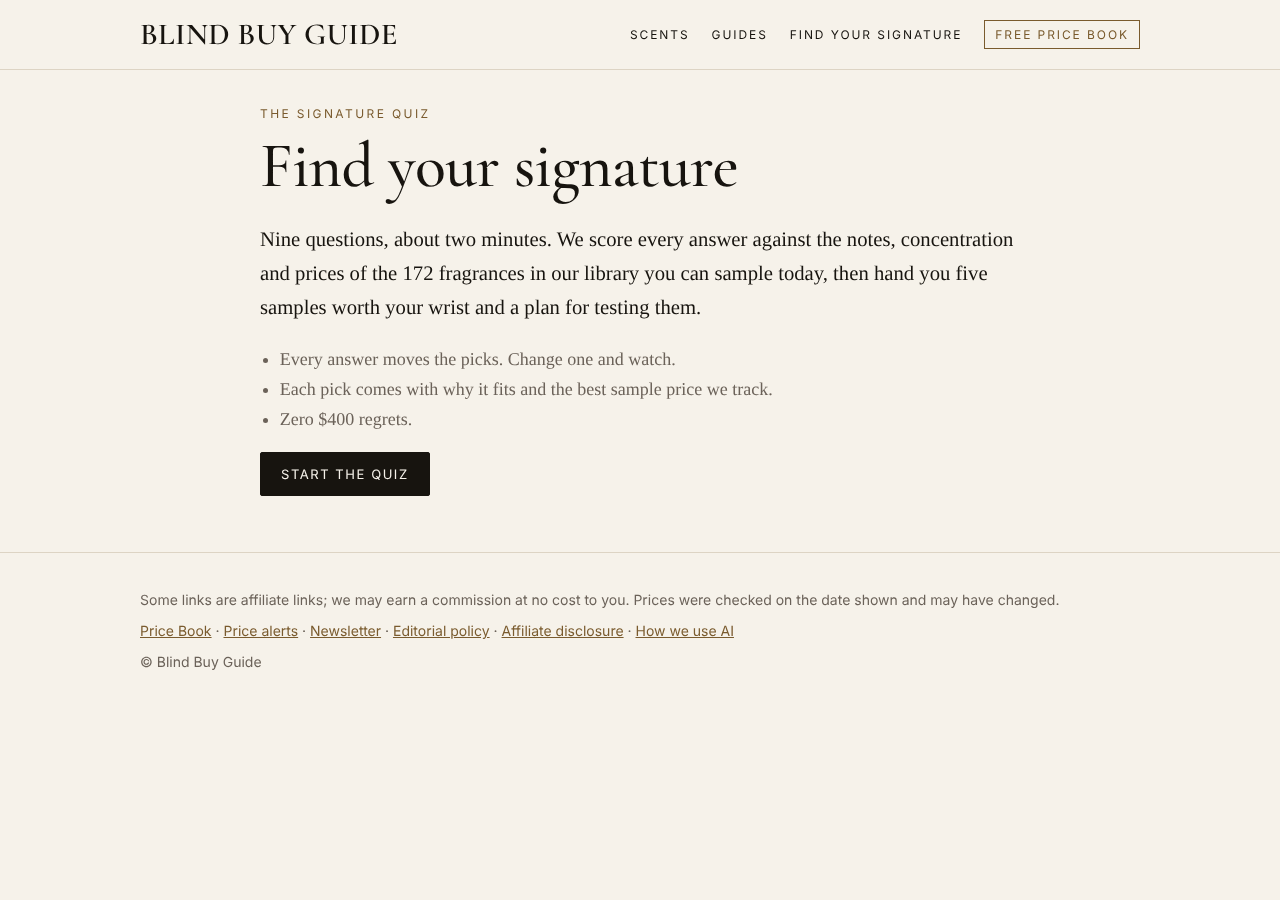
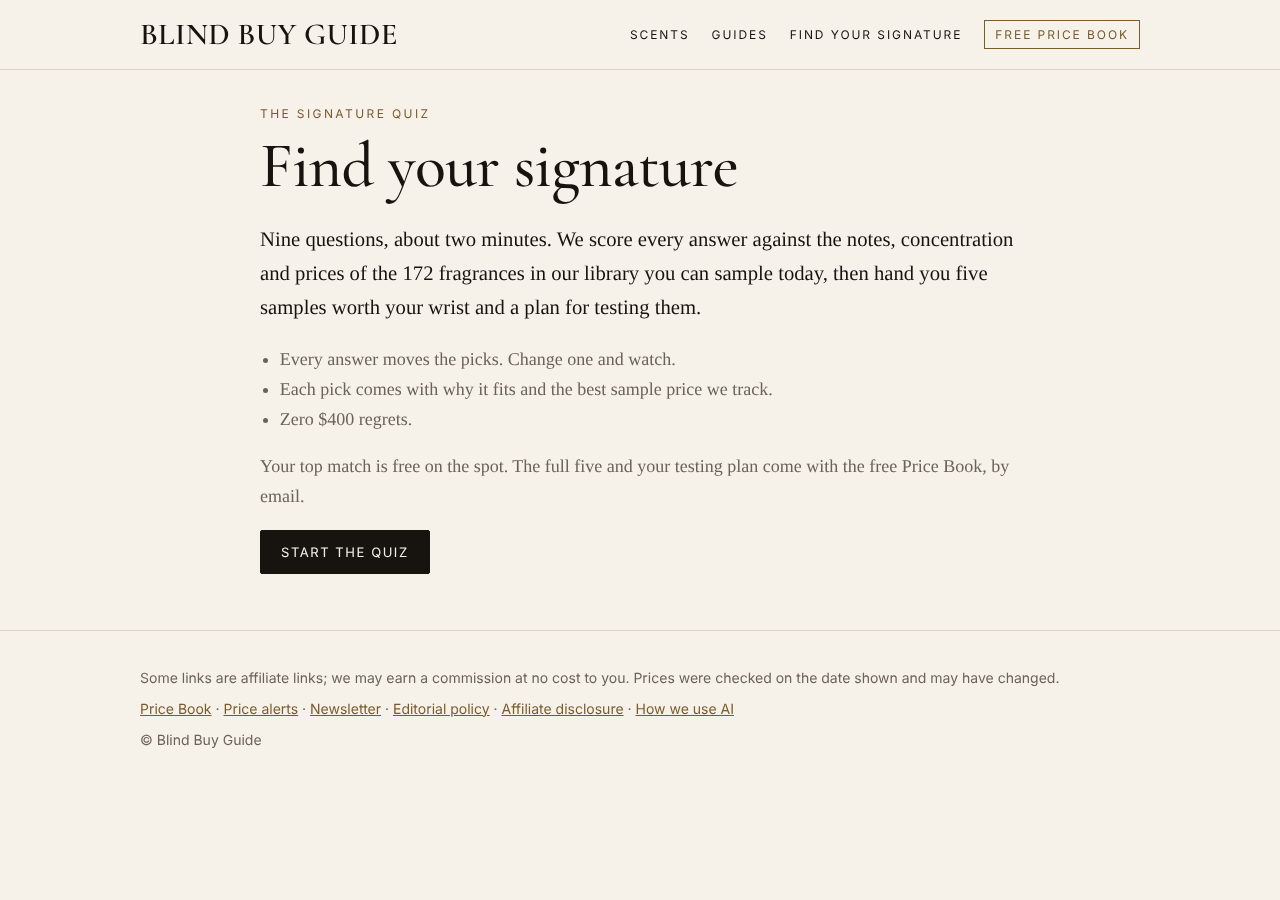
Quiz: hard email gate (only the top match is free), gate placed right after it
Claude-Session: https://claude.ai/code/session_01Dy4JYRwA4WGeTwQui6ao4G

Changed region(s): [[0.0938, 0.5911, 0.8125, 0.84], [0.1875, 0.4978, 0.7812, 0.56]]

diff --git a/find/index.html b/find/index.html
@@ -118,7 +118,7 @@ document.addEventListener('DOMContentLoaded',function(){bbgMount()})})()</script
 .pick{grid-template-columns:104px 1fr;gap:14px;padding:20px 0}.pick.top{grid-template-columns:1fr;gap:12px}.pick.top .bottle{max-width:280px}.pick h3{font-size:1.4em}.pick.top h3{font-size:1.75em}.pick ul{padding-left:1em;font-size:15px}.pick .acts{grid-column:1/-1}
 .pick .acts .btn{width:100%;box-sizing:border-box}.rhead h1{font-size:2em}.gate{padding:22px 18px 16px;margin-left:-16px;margin-right:-16px}.plan li{grid-template-columns:1fr;gap:4px}}</style><div class="qz" id="qz"><div class="qintro" id="qi"><p class="eyebrow">The signature quiz</p><h1>Find your signature</h1>
 <p class="lede">Nine questions, about two minutes. We score every answer against the notes, concentration and prices of the 172 fragrances in our library you can sample today, then hand you five samples worth your wrist and a plan for testing them.</p>
-<ul><li>Every answer moves the picks. Change one and watch.</li><li>Each pick comes with why it fits and the best sample price we track.</li><li>Zero $400 regrets.</li></ul>
+<ul><li>Every answer moves the picks. Change one and watch.</li><li>Each pick comes with why it fits and the best sample price we track.</li><li>Zero $400 regrets.</li></ul><p class="muted">Your top match is free on the spot. The full five and your testing plan come with the free Price Book, by email.</p>
 <p><button type="button" class="btn" id="qgo">Start the quiz</button></p></div><div id="qq" hidden></div><div id="qr" hidden></div></div>
 <noscript><p>The quiz needs JavaScript. Browse <a href="/scents/">every scent</a> instead.</p></noscript>
 <script>// Signature quiz scoring. Plain browser JS: inlined into /find/ by src/quiz.mjs and loaded by tools/quiz-test.mjs.
@@ -242,7 +242,7 @@ function bottleSvg(shape,color){ const [bx,by,bw,bh,br,nx,ny,nw,nh,cx,cy,cw,ch,c
    +'<rect x="'+(bx+10)+'" y="'+(by+8)+'" width="5" height="'+(bh-22)+'" rx="2.5" fill="#fff" opacity=".55"/>'
    +'<rect x="'+cx+'" y="'+cy+'" width="'+cw+'" height="'+ch+'" rx="'+cr+'" fill="#3a2f20"/>'
    +'<rect x="'+(cx+4)+'" y="'+(cy+4)+'" width="3" height="'+(ch-8)+'" rx="1.5" fill="#fff" opacity=".25"/></svg>'; };const SHAPES=[[40,70,80,110,6,68,58,24,12,62,26,36,32,3],[30,80,100,100,38,70,64,20,16,64,34,32,30,15],[52,56,56,128,4,72,46,16,10,66,18,28,28,2],[34,90,92,90,14,66,72,28,18,58,40,44,32,6]];
-(function(){var B="",STEPS=[{"id":"c","h":"More masculine, more feminine, or neither?","sub":"Scent has no gender, but the counters still do. This only nudges the picks.","o":[["m","Leaning masculine","Vetiver, leather, a crisp barbershop edge"],["f","Leaning feminine","Florals, soft musks, a little sugar"],["e","Either. Gender is a marketing department.","We favor the true unisex picks"]]},{"id":"f","multi":3,"h":"Which notes are you drawn to?","sub":"Pick up to three. This one carries the most weight.","o":[["fresh","Fresh and citrus","Bergamot, neroli, sea air"],["green","Green and herbal","Fig leaf, lavender, tea, sage"],["woods","Woods and vetiver","Sandalwood, cedar, vetiver"],["sweet","Sweet and cozy","Vanilla, tonka, a splash of cognac"],["floral","Florals","Rose, jasmine, iris, tuberose"],["smoke","Smoke, oud and leather","Incense, oud, tobacco, suede"],["amber","Warm amber and spice","Saffron, cardamom, resins"],["musk","Clean skin and musk","Ambrette, cashmere, your skin but better"]]},{"id":"p","h":"Pick your main-character energy.","sub":"Be honest. Nobody is watching.","o":[["old","Old money, quiet luxury","The Roy family offsite, minus the backstabbing"],["lotus","White Lotus, week one","Linen, a Negroni, nothing has gone wrong yet"],["gallery","Gallery opening downtown","All black, strong opinions, natural wine"],["gala","Met Gala, theme ignored","More is more, and more is the point"],["cabin","Nancy Meyers kitchen","Cashmere, a fire going, something in the oven"]]},{"id":"w","h":"Where is this signature going?","o":[["office","The office and the everyday","Meetings, errands, the nine to five"],["night","Dinners and nights out","Low lighting, a reservation"],["event","The big occasions","Weddings, black tie, galas"],["all","Everywhere. That is the point of a signature.","One bottle, every room"]]},{"id":"s","h":"When will you wear it most?","o":[["warm","Warm months","Rooftops, linen, heat"],["cold","Cold months","Coats, scarves, dark by five"],["year","Year-round","It has to work in July and January"]]},{"id":"v","h":"How loud should it be?","o":[["skin","Close to the skin","Only people you hug should know"],["mid","A polite trail","Noticed when you walk past"],["room","Fills the room","Arrives before you do"]]},{"id":"x","multi":8,"skip":"No hard no’s","h":"Any hard no’s?","sub":"One wrong note can ruin a $400 bottle. Pick any you can’t stand, and they are out.","o":[["oud","Oud",""],["rose","Rose",""],["gourmand","Vanilla and sugar",""],["patchouli","Patchouli",""],["barber","Lavender",""],["white","Big white florals",""],["leather","Leather",""],["marine","Sea notes",""]]},{"id":"b","h":"When you find The One, what is the bottle budget?","sub":"Full bottle, 50 ml or more. The samples come first either way.","o":[["250","Under $250",""],["400","$250 to $400",""],["top","$400 and up",""],["any","If it is right, it is right",""]]},{"id":"love","search":1,"skip":"Skip and see my picks","h":"A fragrance you already love?","sub":"Optional, and very useful. We will match what it is built on."}],FREE=3,FORM="<div class=\"nlwrap\"></div>";
+(function(){var B="",STEPS=[{"id":"c","h":"More masculine, more feminine, or neither?","sub":"Scent has no gender, but the counters still do. This only nudges the picks.","o":[["m","Leaning masculine","Vetiver, leather, a crisp barbershop edge"],["f","Leaning feminine","Florals, soft musks, a little sugar"],["e","Either. Gender is a marketing department.","We favor the true unisex picks"]]},{"id":"f","multi":3,"h":"Which notes are you drawn to?","sub":"Pick up to three. This one carries the most weight.","o":[["fresh","Fresh and citrus","Bergamot, neroli, sea air"],["green","Green and herbal","Fig leaf, lavender, tea, sage"],["woods","Woods and vetiver","Sandalwood, cedar, vetiver"],["sweet","Sweet and cozy","Vanilla, tonka, a splash of cognac"],["floral","Florals","Rose, jasmine, iris, tuberose"],["smoke","Smoke, oud and leather","Incense, oud, tobacco, suede"],["amber","Warm amber and spice","Saffron, cardamom, resins"],["musk","Clean skin and musk","Ambrette, cashmere, your skin but better"]]},{"id":"p","h":"Pick your main-character energy.","sub":"Be honest. Nobody is watching.","o":[["old","Old money, quiet luxury","The Roy family offsite, minus the backstabbing"],["lotus","White Lotus, week one","Linen, a Negroni, nothing has gone wrong yet"],["gallery","Gallery opening downtown","All black, strong opinions, natural wine"],["gala","Met Gala, theme ignored","More is more, and more is the point"],["cabin","Nancy Meyers kitchen","Cashmere, a fire going, something in the oven"]]},{"id":"w","h":"Where is this signature going?","o":[["office","The office and the everyday","Meetings, errands, the nine to five"],["night","Dinners and nights out","Low lighting, a reservation"],["event","The big occasions","Weddings, black tie, galas"],["all","Everywhere. That is the point of a signature.","One bottle, every room"]]},{"id":"s","h":"When will you wear it most?","o":[["warm","Warm months","Rooftops, linen, heat"],["cold","Cold months","Coats, scarves, dark by five"],["year","Year-round","It has to work in July and January"]]},{"id":"v","h":"How loud should it be?","o":[["skin","Close to the skin","Only people you hug should know"],["mid","A polite trail","Noticed when you walk past"],["room","Fills the room","Arrives before you do"]]},{"id":"x","multi":8,"skip":"No hard no’s","h":"Any hard no’s?","sub":"One wrong note can ruin a $400 bottle. Pick any you can’t stand, and they are out.","o":[["oud","Oud",""],["rose","Rose",""],["gourmand","Vanilla and sugar",""],["patchouli","Patchouli",""],["barber","Lavender",""],["white","Big white florals",""],["leather","Leather",""],["marine","Sea notes",""]]},{"id":"b","h":"When you find The One, what is the bottle budget?","sub":"Full bottle, 50 ml or more. The samples come first either way.","o":[["250","Under $250",""],["400","$250 to $400",""],["top","$400 and up",""],["any","If it is right, it is right",""]]},{"id":"love","search":1,"skip":"Skip and see my picks","h":"A fragrance you already love?","sub":"Optional, and very useful. We will match what it is built on."}],FREE=1,FORM="<div class=\"nlwrap\"></div>";
 var $=function(i){return document.getElementById(i)},esc=function(t){return String(t==null?'':t).replace(/[&<>"]/g,function(c){return{'&':'&amp;','<':'&lt;','>':'&gt;','"':'&quot;'}[c]})};
 var U=new URLSearchParams(location.search),A={c:U.get('c')||'',f:(U.get('f')||'').split(',').filter(Boolean),p:U.get('p')||'',w:U.get('w')||'',s:U.get('s')||'',v:U.get('v')||'',x:(U.get('x')||'').split(',').filter(Boolean),b:U.get('b')||'',love:U.get('love')||''};
 var D=[],step=0,done=U.has('r');
@@ -294,8 +294,8 @@ function show(){if(!D.length)return;save(true);$('qi').hidden=true;$('qq').hidde
  var chips=['c','p','w','s','v','b'].map(function(k){return A[k]?label(k,A[k]):''}).filter(Boolean).concat(A.x.map(function(k){return 'No '+QZ.NO_LABEL[k]}));
  var h='<div class="rhead"><p class="eyebrow" style="margin:0">Your signature profile</p><h1>'+pr.t+'</h1><p class="lede">'+pr.d+'</p><div class="rchips">'+chips.map(function(c){return '<span class="tag">'+esc(c)+'</span>'}).join('')+'</div></div>';
  p.forEach(function(x,i){if(unlocked||i<FREE)h+=card(x,i,false)});
- if(!unlocked){for(var i=FREE;i<p.length;i++)h+=card(p[i],i,true);
-  h+='<div class="gate" id="gate"><p class="eyebrow" style="color:inherit;opacity:.7;margin:0">Free, by email</p><h2>Unlock picks '+(FREE+1)+' to '+p.length+' and your testing plan</h2><ul><li>The rest of your five, including the curveball, with why each one fits</li><li>A day-by-day two-week testing plan built around your answers</li><li>The Price Book: every fragrance we track, best sample and bottle price per ml</li></ul>'+FORM+'<p class="fine">One email a week. Unsubscribe in one click. Your picks stay on this page: the link keeps your answers.</p></div>'}
+ if(!unlocked){var lockedCards='';for(var i=FREE;i<p.length;i++)lockedCards+=card(p[i],i,true);
+  h+='<div class="gate" id="gate"><p class="eyebrow" style="color:inherit;opacity:.7;margin:0">Free, by email</p><h2>Unlock picks '+(FREE+1)+' to '+p.length+' and your testing plan</h2><ul><li>The rest of your five, including the curveball, with why each one fits</li><li>A day-by-day two-week testing plan built around your answers</li><li>The Price Book: every fragrance we track, best sample and bottle price per ml</li></ul>'+FORM+'<p class="fine">One email a week. Unsubscribe in one click. Your picks stay on this page: the link keeps your answers.</p></div>'+lockedCards}
  else h+='<p>All five as samples: about <strong>'+QZ.money(Math.round(tot*100)/100)+'</strong> at the prices shown. That is the whole testing kit for less than the tax on one bottle.</p>'+plan(p);
  h+='<div class="rfoot"><button type="button" class="lnk" data-edit="1">Change my answers</button><button type="button" class="lnk" data-restart="1">Start over</button><a href="'+B+'/scents/">Browse every scent</a></div>';
  r.innerHTML=h;window.bbgMount&&bbgMount();r.scrollIntoView({block:'start'})}
